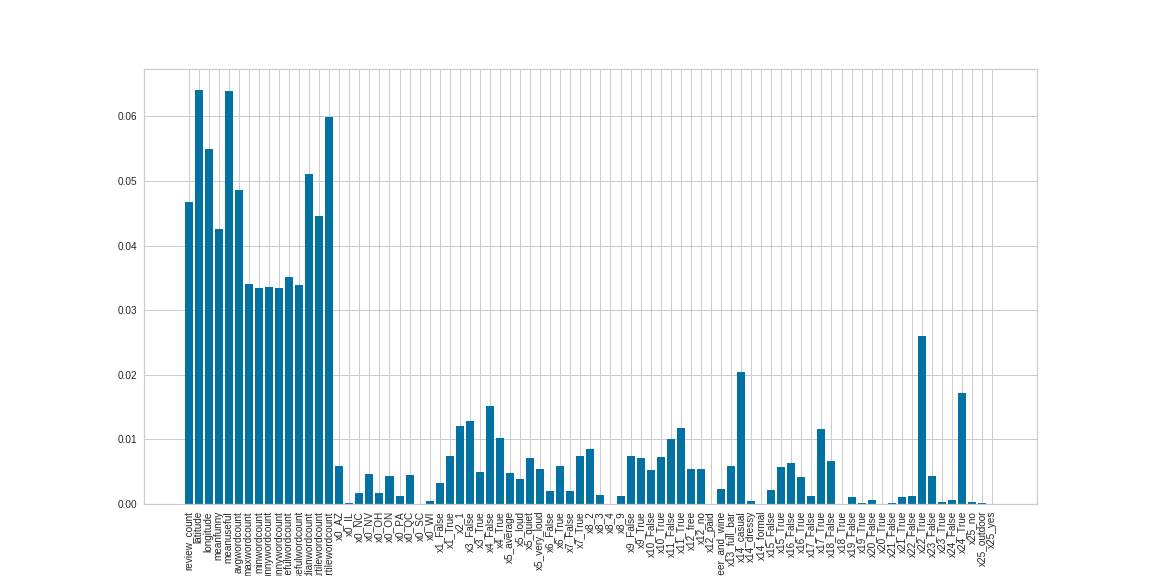
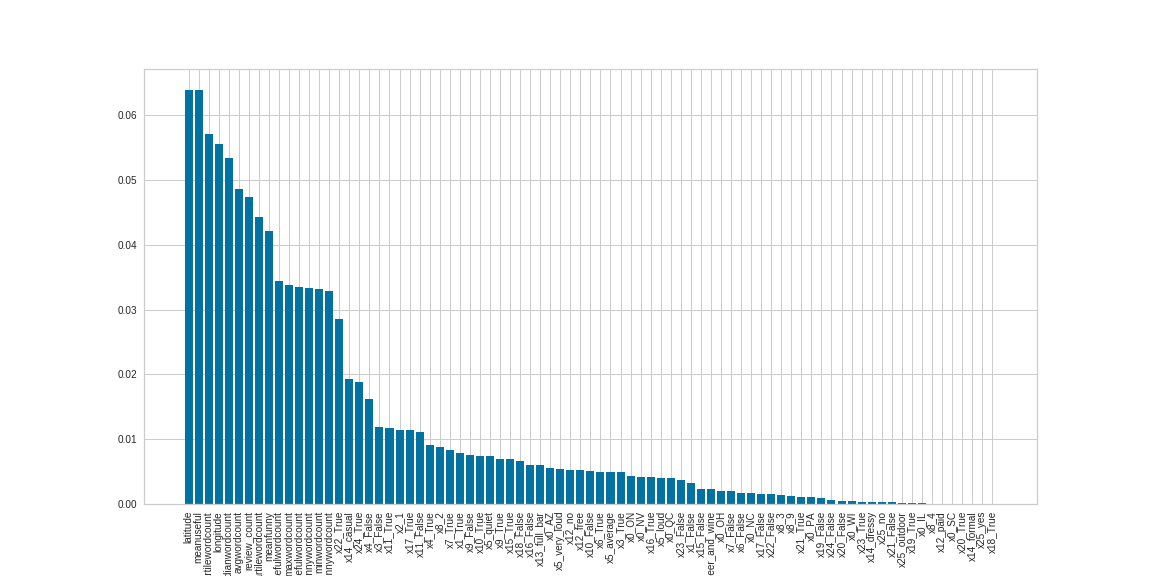
starting to clean up graphics, finish tech notebook

diff --git a/tn_helper.py b/tn_helper.py
@@ -18,7 +18,7 @@ def top_models(results):
     results_df.index=['rf_results', 'svm_mc_results', 'svm_ny_results', 'log_results']
     return results_df
 
-def feature_importance(model, X_train, categorical_features):
+def feature_importance(model, X_train, categorical_features, numerical_features):
     """ This returns a dataframe with features and their importances. Input should be a
     fitted random forest model, the training data and the list of categorical features"""
     
@@ -28,5 +28,5 @@ def feature_importance(model, X_train, categorical_features):
     feature_names=numerical_features+list(categorical_names)
     importances_df=pd.concat([pd.DataFrame(importances),pd.DataFrame(feature_names)],axis=1)
     importances_df.columns=['Importance','Feature']
-    importances_df.sort_values(by='Importance',ascending=False)
+    importances_df=importances_df.sort_values(by='Importance',ascending=False)
     return importances_df
